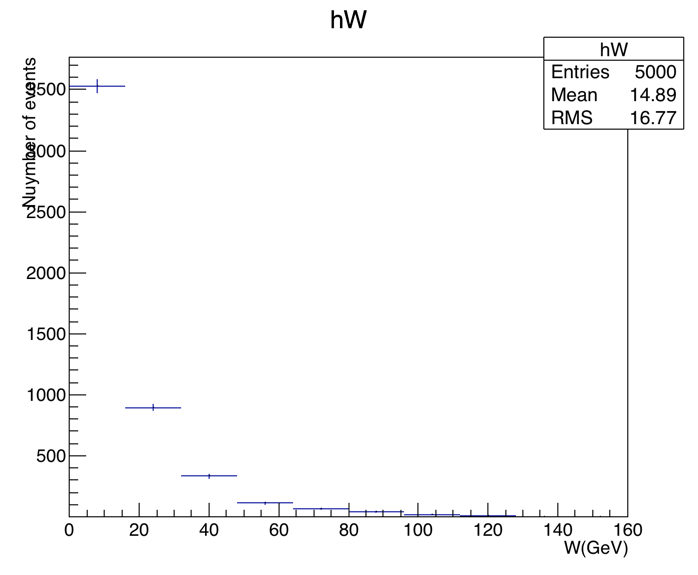
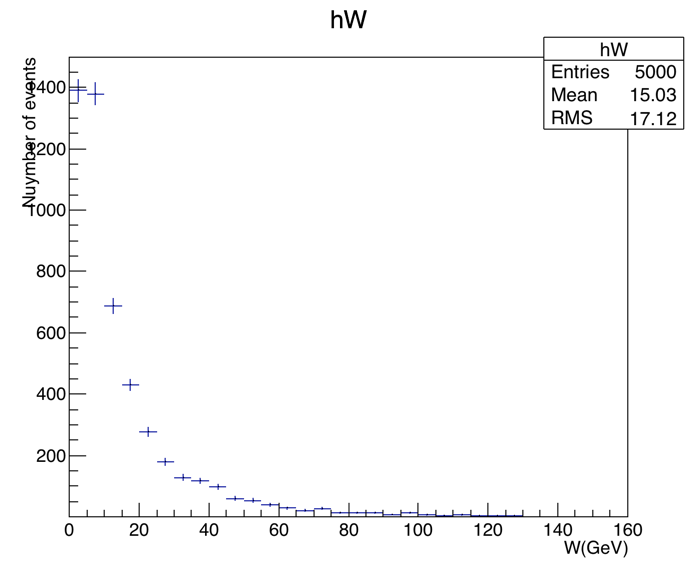
Espressi grafici in unità corrette e risolti conflitti
Eliminato anche pythiaExample.C

diff --git a/pythia/pythia6_gammagamma_hadrons.C b/pythia/pythia6_gammagamma_hadrons.C
@@ -314,7 +314,7 @@ void pythia6_gammagamma_hadrons( int Nevts = 5000, double sqrts = 160.)
   // Normalize histos by weighted cross-section, pseudorapidity range, and the pT bin size
        
   double etabinsize = 1.5/5; // eta binning: 20 within -10<eta<10
-  hdsigmadeta->Scale(sigmaweight/etabinsize);
+  hdsigmadeta->Scale(1e-3*sigmaweight/etabinsize);
   double ptbinsize = (pt_max-pt_min)/n_bin_pt;
   hdsigmadpT->Scale(sigmaweight/ptbinsize);
     
@@ -356,19 +356,22 @@ void pythia6_gammagamma_hadrons( int Nevts = 5000, double sqrts = 160.)
 
   TF1 *f_fit = new TF1("f_fit", pdf, pt_min, pt_max, 3);
   f_fit->SetParNames("m","C","alpha");
-  
+
+  cinvdsigmadpT->cd(); //changing canvas
+
   cout << "Starting fitting to dsigmadpT..." << endl << "Give starting parameters for pdf(x) =C*x^alpha +m" << endl;
 
   Double_t m = 5e4;
-  cout << "m :"; cin >> m;
+  //cout << "m :"; cin >> m;
 
   Double_t C = 1e4;
-  cout << "C: "; cin >> C;
+  //cout << "C: "; cin >> C;
 
   Double_t alpha = -8;
-  cout << "alpha: "; cin >> alpha;
+  //cout << "alpha: "; cin >> alpha;
   
   f_fit->SetParameter(0, m);
+  f_fit->FixParameter(0,0);
   f_fit->SetParameter(1, C);
   f_fit->SetParameter(2, alpha);
 
@@ -398,11 +401,8 @@ void pythia6_gammagamma_hadrons( int Nevts = 5000, double sqrts = 160.)
   file->cd();
   hdsigmadeta->Write();
   hdsigmadpT->Write();
-<<<<<<< HEAD
   h_had_per_ev->Write();
-=======
   hW->Write();
->>>>>>> origin/master
   //file->Write("",TObject::kOverwrite);
   file->Close();
   cout << endl << "#######<I> File " << filename << " created. Take a look ... ##############" << endl << endl;

diff --git a/pythia/pythia6_gammagamma_hadrons.h b/pythia/pythia6_gammagamma_hadrons.h
@@ -32,12 +32,9 @@ TDatabasePDG *PDG = 0;
 
 TH1F* hdsigmadeta = 0;
 TH1F* hdsigmadpT = 0;
-<<<<<<< HEAD
 TH1F* h_had_per_ev = 0;
-=======
 TH1F* hW = 0;
 
->>>>>>> origin/master
 //TH1F* hEdsigmadpT = 0;
 //TNtuple* ntFFdsigmadeta = 0;
 
@@ -216,16 +213,12 @@ void book_histos()
   //hdsigmadeta = new TH1F(title,title,21,-10.5,10.5);
   hdsigmadeta = new TH1F(title,title,5,0,1.5);
   hdsigmadeta->SetXTitle("|#eta|");
-  hdsigmadeta->SetYTitle("d#sigma_{ch}/d|#eta| (mb)");
-<<<<<<< HEAD
-  hdsigmadeta->SetMinimum(0.00001);
-=======
+  hdsigmadeta->SetYTitle("d#sigma_{ch}/d|#eta| (nb)");
   hdsigmadeta->SetMinimum(0.0001);
->>>>>>> origin/master
   hdsigmadeta->Sumw2();
 
   sprintf(title, "h_hadrons_per_event");
-  h_had_per_ev = new TH1F(title,title,7,0,7);
+  h_had_per_ev = new TH1F(title,title,20,0,20);
   h_had_per_ev->SetXTitle("Numebr of charged hadrons per event");
   h_had_per_ev->SetYTitle("Numebr of events");
   h_had_per_ev->SetMinimum(0.000001);
@@ -245,7 +238,7 @@ void book_histos()
   hdsigmadpT->Sumw2();
 
   sprintf(title, "hW");
-  hW = new TH1F(title,title,10,0,160);
+  hW = new TH1F(title,title,32,0,160);
   hW->SetXTitle("W(GeV)");
   hW->SetYTitle("Nuymber of events");
   hW->SetMinimum(0.0001);
